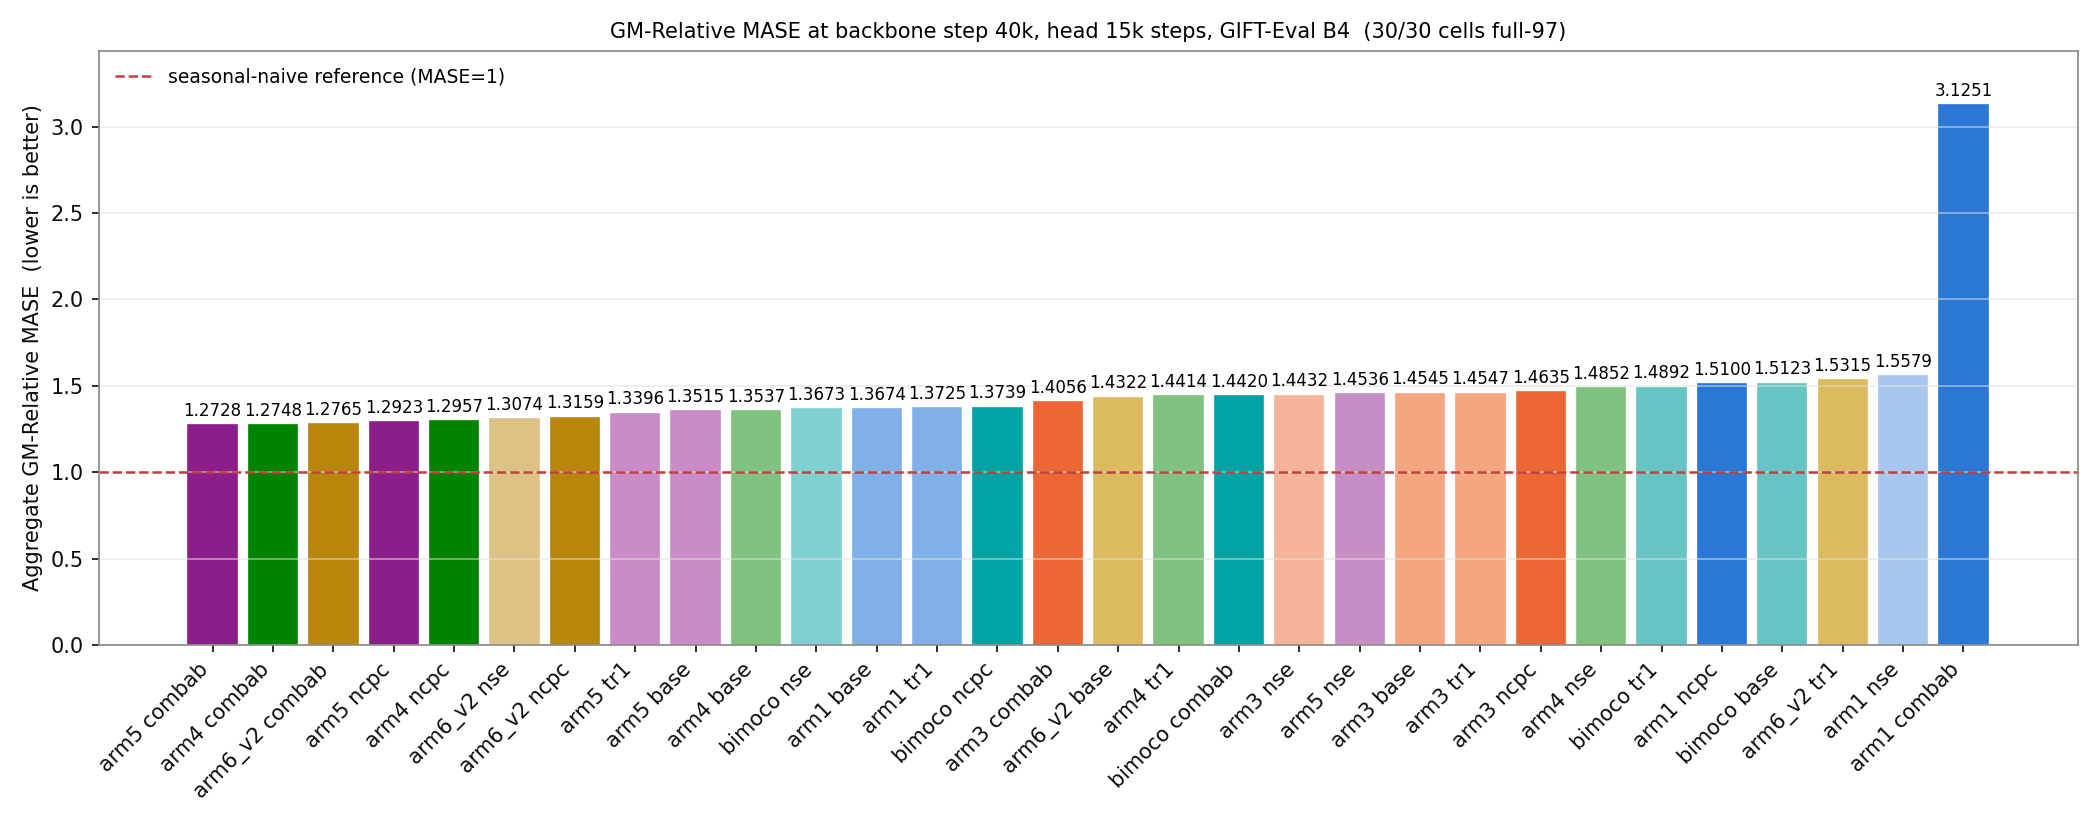
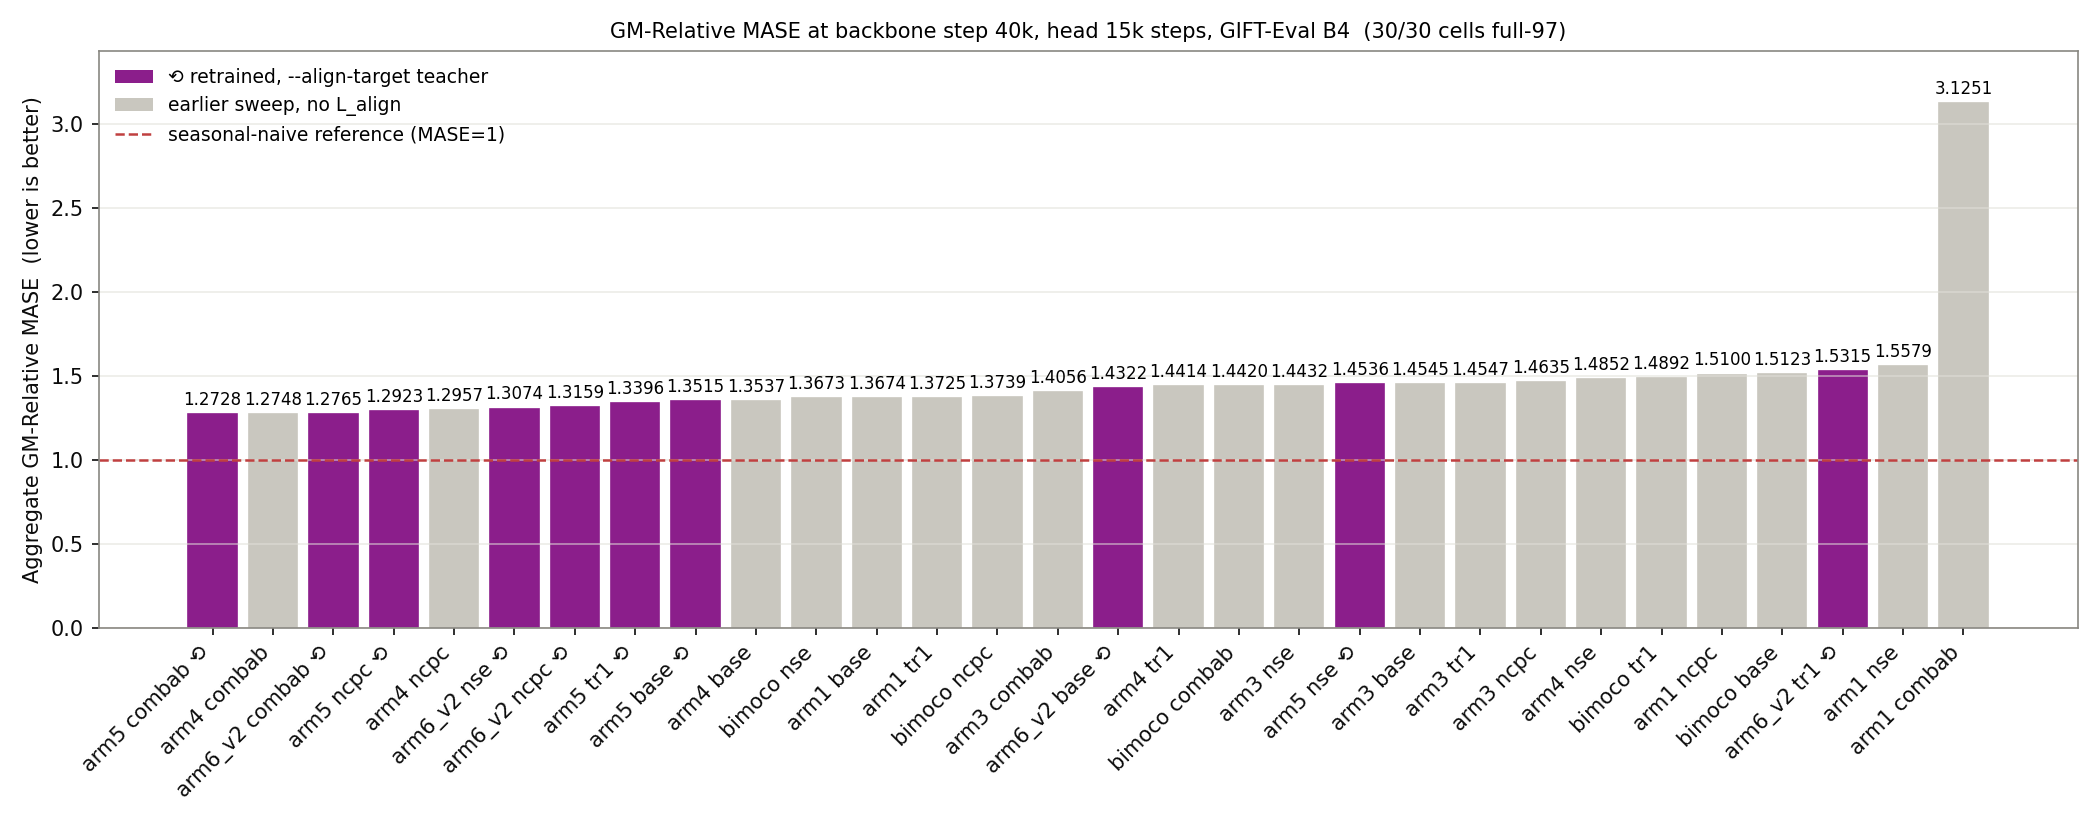
exp(#390): fifth-pass report — qk-logit definition fixed, bars keyed by retrain

Changed region(s): [[0.0, 0.0606, 0.9905, 0.9697]]

diff --git a/reports/2026-08-04_lalign_teacher/plots/_make_eval_bars.py b/reports/2026-08-04_lalign_teacher/plots/_make_eval_bars.py
@@ -73,11 +73,17 @@ plt.rcParams.update({
     "xtick.color": INK, "ytick.color": INK,
 })
 fig, ax = plt.subplots(figsize=(14, 5.5))
+# Recipe colours sit in shared families with no room for a 6-way key on 30 bars,
+# so the bars carry one distinction only: retrained with --align-target teacher
+# or not. Two colours, two legend entries.
+RETRAINED, OTHER = "#8b1e8b", "#c9c7bf"
 rows = []
 for label, slug, colour in ARMS:
     v, n = read_agg(slug)
     if v is None: continue
-    rows.append((label, colour, v, n))
+    teacher = label.startswith("arm5 ") or label.startswith("arm6_v2 ")
+    rows.append((label + (" ⟲" if teacher else ""),
+                 RETRAINED if teacher else OTHER, v, n))
 rows.sort(key=lambda r: r[2])
 xs = list(range(len(rows)))
 labs = [r[0] for r in rows]
@@ -93,6 +99,9 @@ for bar, hatch in zip(bars, hatches):
     if hatch: bar.set_hatch(hatch)
 ax.axhline(1.0, color="#c04040", lw=1.2, linestyle="--",
            label="seasonal-naive reference (MASE=1)")
+from matplotlib.patches import Patch
+handles = [Patch(facecolor=RETRAINED, label="⟲ retrained, --align-target teacher"),
+           Patch(facecolor=OTHER, label="earlier sweep, no L_align")]
 # Bars start at zero, so every bar is drawn to scale and the tallest one fits.
 for x, v, n in zip(xs, ys, ns):
     tag = f"{v:.4f}" + (f"\n({n} cfg)" if n < 97 else "")
@@ -105,7 +114,7 @@ ax.set_title(
     f"({n_full}/{len(rows)} cells full-97)",
     fontsize=10)
 ax.grid(True, axis="y", color=GRID, alpha=0.6)
-ax.legend(loc="upper left", fontsize=9, frameon=False)
+ax.legend(handles=handles + [ax.lines[0]], loc="upper left", fontsize=9, frameon=False)
 if ys:
     ax.set_ylim(0.0, max(ys) * 1.10)
 fig.tight_layout()

diff --git a/reports/2026-08-04_lalign_teacher/plots/_make_eval_bars_200k.py b/reports/2026-08-04_lalign_teacher/plots/_make_eval_bars_200k.py
@@ -83,9 +83,7 @@ ax.legend(loc="upper left", fontsize=9, frameon=False)
 n_down = sum(1 for v, p, _a, _v in rows if v < p)
 ax.set_title(
     f"GM-Relative MASE at backbone step 200k, head 30k steps, GIFT-Eval B4\n"
-    f"{len(rows)} cells; filled = 200k, hollow = 100k; vertical range = measured "
-    f"head-seed range ({n_rep} of {len(rows)} cells have replicate seeds); "
-    f"dashed = seasonal-naive parity",
+    f"filled = backbone 200k, hollow = 100k; whisker = head-seed range",
     fontsize=10.5)
 fig.tight_layout()
 out = HERE / "eval_2L_gm_mase_bars_200k.png"

diff --git a/reports/2026-08-04_lalign_teacher/lalign_teacher.md b/reports/2026-08-04_lalign_teacher/lalign_teacher.md
@@ -10,7 +10,7 @@ The earlier small-model sweep computed `L_align` against the student encoder und
 
 ![GM-Relative MASE of all 30 cells at backbone 40k, seasonal-naive parity dashed](plots/eval_2L_gm_mase_bars.png)
 
-*All 30 cells at backbone 40k against the dashed parity line at 1.0.*
+*All 30 cells at backbone 40k against the dashed parity line at 1.0. Coloured = the 10 cells retrained with `--align-target teacher`.*
 
 > **Cell** here is one loss recipe plus one setting, e.g. `arm5 combab`. The CSVs name it `arm_slug`. A cell measured under several head seeds is still one cell. The recipes and the settings are tabulated in [Protocol](#8-protocol).
 
@@ -39,7 +39,7 @@ Of the five finished controls, four reproduce the earlier sweep's number exactly
 
 *Four frozen backbones, the quantile head retrained under extra seeds — its init and its data order — and the full 97-config eval re-run each time (`results/seed_spread.csv`). Only these four cells carry replicate head seeds.*
 
-Against the largest range in that figure, 8 of the 20 cross-experiment teacher-minus-earlier differences are larger in absolute terms and 11 of 20 are larger in relative terms.
+The largest head-seed range is 0.0908, or 5.1% of that cell's lowest seed. Of the 20 cross-experiment differences in section 5, 8 exceed it in absolute value and 11 exceed it in relative value.
 
 ## 3. Where the 30 cells sit across backbone horizons
 
@@ -49,7 +49,7 @@ Against the largest range in that figure, 8 of the 20 cross-experiment teacher-m
 
 ![GM-Relative MASE of the 8 cells extended to backbone 200k](plots/eval_2L_gm_mase_bars_200k.png)
 
-*The 8 cells extended past 100k. Filled dot = backbone 200k, hollow = 100k, vertical whisker = measured head-seed range.*
+*The 8 cells extended past 100k. Filled dot = backbone 200k, hollow = 100k, vertical whisker = measured head-seed range, on the 3 of 8 cells that carry replicate seeds.*
 
 *Ranked by the 100k value. `⟲` marks a cell retrained with `--align-target teacher`; the other 20 carry no `L_align` term and are the earlier sweep's numbers, on the same seasonal-naive denominator. A dash means the cell was not extended. Values are head seed 20260722; `†` marks a cell with replicate seeds, given below the table.*
 
@@ -94,10 +94,6 @@ Against the largest range in that figure, 8 of the 20 cross-experiment teacher-m
 
 *The headline geometric mean split by dataset domain. The left radar puts cells measured at backbone 100k and at 200k on one chart, so it moves the backbone step as well as the cell. Per-config source: `results/eval_gm_mase/<cell>/all_results.csv`, same seasonal-naive denominator as the aggregate.*
 
-`Nature` and `Sales` are the only domains where cells fall below 1.0.
-
-*Configs per domain in brackets. Bold = below 1.0. Source: `results/eval_gm_mase/<cell>_bb200k_hd30000s/all_results.csv`.*
-
 | Cell (bb 200k) | Energy (32) | Web/CloudOps (20) | Transport (15) | Nature (15) | Econ/Fin (6) | Healthcare (5) | Sales (4) | all 97 |
 |---|---|---|---|---|---|---|---|---|
 | `arm6_v2 combab` ⟲ | 1.388 | 1.283 | 1.021 | **0.867** | 1.489 | 1.261 | **0.830** | 1.1850 |
@@ -109,6 +105,8 @@ Against the largest range in that figure, 8 of the 20 cross-experiment teacher-m
 | `arm1 combab` | 1.985 | 1.799 | 1.379 | 1.208 | 3.934 | 1.572 | 1.068 | 1.7107 |
 | `arm5 nse` ⟲ | 2.394 | 2.111 | 1.836 | 1.324 | 2.075 | 1.340 | **0.912** | 1.8887 |
 | *cells below 1.0, of 8* | 0/8 | 0/8 | 0/8 | 6/8 | 0/8 | 0/8 | 7/8 | 0/8 |
+
+*Configs per domain in brackets. Bold = below 1.0. Source: `results/eval_gm_mase/<cell>_bb200k_hd30000s/all_results.csv`.*
 
 ## 5. The retrained cells against the earlier sweep
 
@@ -145,7 +143,7 @@ Against the largest range in that figure, 8 of the 20 cross-experiment teacher-m
 
 Panel 3 gives Spearman ρ = −0.33 on n = 8 cells at p = 0.42, so late drift does not separate the improvers at this sample size.
 
-*For one loss recipe, a setting counts as* lower *when its mean `1 − cos` displacement over every adjacent-checkpoint pair of that run falls below the base setting's mean of the same recipe. The denominator is the six recipes `arm1`, `arm3`, `arm4`, `arm5`, `arm6_v2`, `bimoco`; p is a two-sided exact binomial test. Source: `results/latent_movement_pairs.csv`.*
+*A setting counts as* lower *when its mean `1 − cos` displacement over adjacent-checkpoint pairs falls below the base setting of the same recipe; denominator is the six recipes, p is a two-sided exact binomial test (`results/latent_movement_pairs.csv`).*
 
 | Setting | `h_t` drift lower than base / 6 | `h_t` p | `e_t` drift lower than base / 6 | `e_t` p |
 |---|---|---|---|---|
@@ -154,13 +152,13 @@ Panel 3 gives Spearman ρ = −0.33 on n = 8 cells at p = 0.42, so late drift do
 | `tr1` | 1/6 (arm5) | 0.219 | 2/6 | 0.688 |
 | `combab` | 1/6 (arm5) | 0.219 | 4/6 | 0.688 |
 
-## 7. Where the highest cell at each backbone step comes from
+## 7. Backbone loss and attention logit magnitude of the highest cell at each backbone step
 
 ![Backbone loss and attention logit magnitude of the highest cell at each backbone step](plots/per_run_loss.png)
 
-*The three cells below are selected by one rule: the highest GM-Relative MASE of the field at backbone 40k, at 100k and at 200k (`results/gm_relative_mase.csv`). The selected run in colour, the other four settings of the same recipe in grey (`results/training_curves/`, `results/attn_amplitude/`).*
+*The three cells below are selected by one rule: the highest GM-Relative MASE of the field at backbone 40k, at 100k and at 200k (`results/gm_relative_mase.csv`). The selected run in colour, the other four settings of the same recipe in grey (`results/training_curves/`, `results/attn_amplitude/`). Lower panels: `qk_logit_maxabs` averaged over layers and blocks; the table column is the maximum, not this mean.*
 
-*Each loss value is the mean over the first, or the last, 5% of the logged steps of that window, not the value at a single step (`results/anomaly_windows.csv`). **Rise-from-minimum** is the run's final loss minus the lowest loss it ever recorded. **Peak qk logit** is `qk_logit_maxabs`, the peak absolute pre-softmax attention logit, logged every 200 steps and averaged over the encoder layers. Rank 1 = lowest of the 40 backbones. No non-finite loss or gap appears in any of the 40 (`results/anomaly_inspection.csv`).*
+*Each loss value is the mean over the first, or the last, 5% of the logged steps of that window, not the value at a single step (`results/anomaly_windows.csv`). **Rise-from-minimum** is the run's final loss minus the lowest loss it ever recorded. **Peak qk logit** is `qk_logit_maxabs`, the peak absolute pre-softmax attention logit, logged every 200 steps; the value is the maximum over layers, over the `enc` and `fcst` blocks, and over the run. Rank 1 = lowest of the 40 backbones. No non-finite loss or gap appears in any of the 40 (`results/anomaly_inspection.csv`).*
 
 | Cell | GM-Rel MASE | loss, start of 0–40k | end of 0–40k | end of 40–100k | end of 100–200k | peak qk logit | rank of 40 | rise-from-min | rank of 40 |
 |---|---|---|---|---|---|---|---|---|---|
